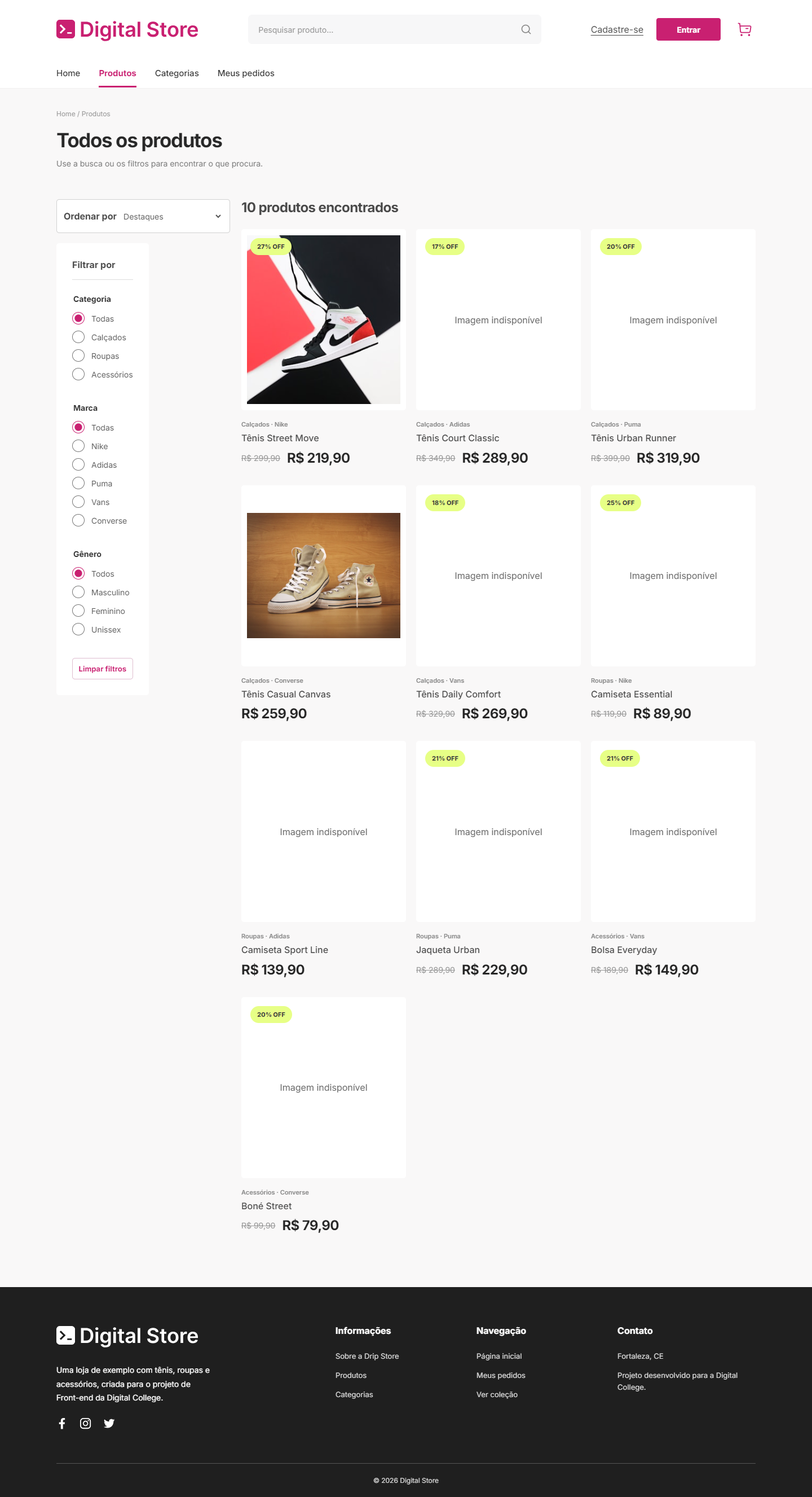
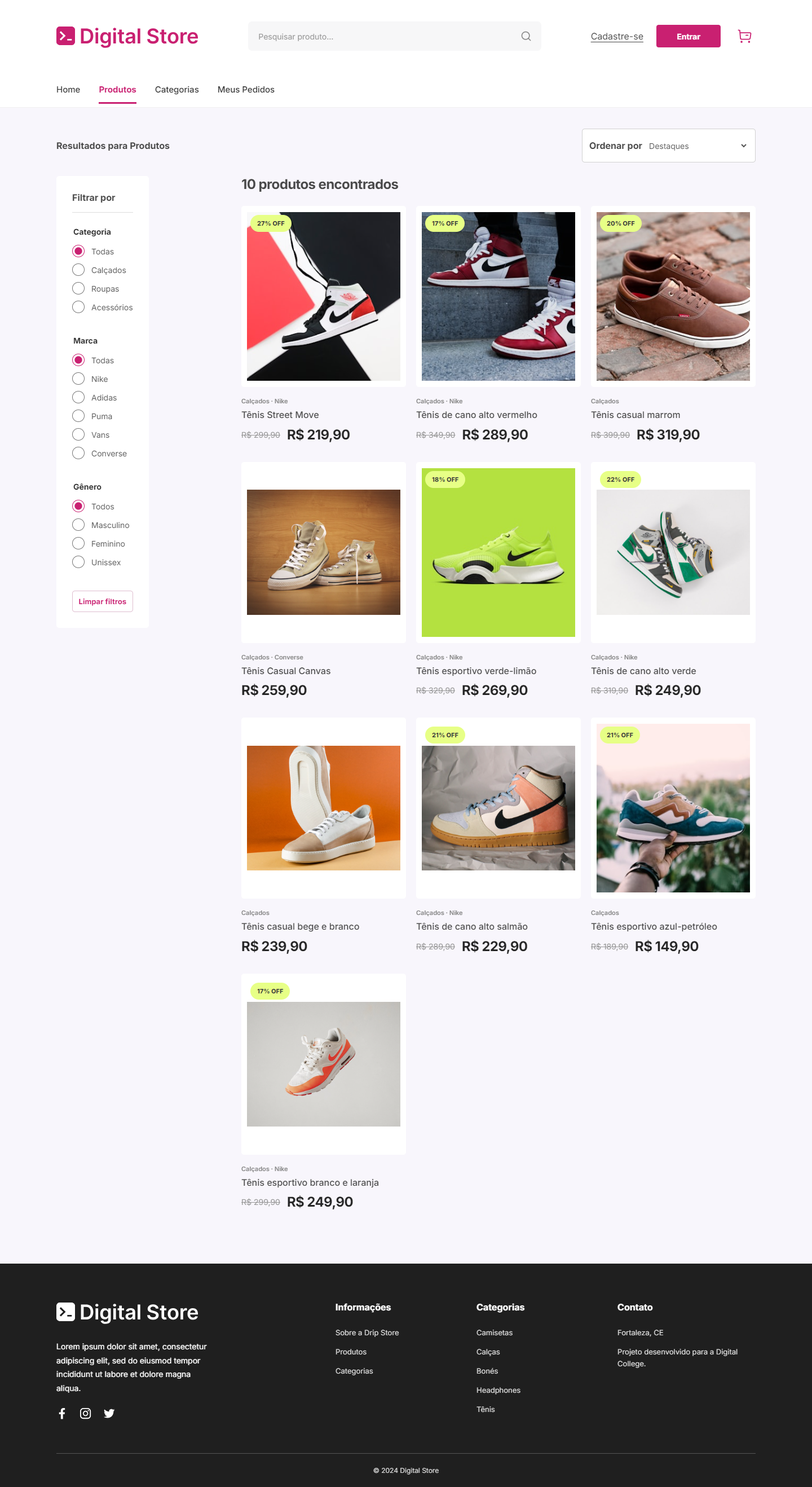
fix: alinhar páginas às referências e completar fotos do catálogo

diff --git a/src/data/products.js b/src/data/products.js
@@ -1,35 +1,35 @@
 const cdn = '/store/';
 
 export const collections = [
-  { title: 'Estilo que acompanha', tag: 'Camisetas', image: `${cdn}collection-1.png`, category: 'Roupas' },
-  { title: 'O detalhe faz diferença', tag: 'Calçados', image: `${cdn}collection-2.png`, category: 'Calçados' },
-  { title: 'Para todos os dias', tag: 'Acessórios', image: `${cdn}collection-3.png`, category: 'Acessórios' }
+  { title: 'Novo drop Supreme', tag: 'Camisetas', image: `${cdn}collection-1.png`, category: 'Roupas' },
+  { title: 'Coleção Adidas', tag: 'Calçados', image: `${cdn}collection-2.png`, category: 'Calçados' },
+  { title: 'Novo Beats Bass', tag: 'Acessórios', image: `${cdn}collection-3.png`, category: 'Acessórios' }
 ];
 
 const data = [
-  ['Tênis Street Move', 'Calçados', 'Nike', 'Unissex', 299.90, 219.90, 'product-thumb-1.jpeg'],
-  ['Tênis Court Classic', 'Calçados', 'Adidas', 'Masculino', 349.90, 289.90, null],
-  ['Tênis Urban Runner', 'Calçados', 'Puma', 'Feminino', 399.90, 319.90, null],
-  ['Tênis Casual Canvas', 'Calçados', 'Converse', 'Unissex', 259.90, null, 'produc-image-4.jpeg'],
-  ['Tênis Daily Comfort', 'Calçados', 'Vans', 'Masculino', 329.90, 269.90, null],
-  ['Camiseta Essential', 'Roupas', 'Nike', 'Feminino', 119.90, 89.90, null],
-  ['Camiseta Sport Line', 'Roupas', 'Adidas', 'Masculino', 139.90, null, null],
-  ['Jaqueta Urban', 'Roupas', 'Puma', 'Unissex', 289.90, 229.90, null],
-  ['Bolsa Everyday', 'Acessórios', 'Vans', 'Feminino', 189.90, 149.90, null],
-  ['Boné Street', 'Acessórios', 'Converse', 'Unissex', 99.90, 79.90, null]
+  ["Tênis Street Move","Calçados","Nike","Unissex",299.9,219.9,"product-thumb-1.jpeg"],
+  ["Tênis de cano alto vermelho","Calçados","Nike","Unissex",349.9,289.9,"product-thumb-2.jpeg"],
+  ["Tênis casual marrom","Calçados","","Unissex",399.9,319.9,"product-thumb-3.jpeg"],
+  ["Tênis Casual Canvas","Calçados","Converse","Unissex",259.9,null,"produc-image-4.jpeg"],
+  ["Tênis esportivo verde-limão","Calçados","Nike","Unissex",329.9,269.9,"product-thumb-5.jpeg"],
+  ["Tênis de cano alto verde","Calçados","Nike","Unissex",319.9,249.9,"produc-image-1.jpeg"],
+  ["Tênis casual bege e branco","Calçados","","Unissex",239.9,null,"produc-image-2.jpeg"],
+  ["Tênis de cano alto salmão","Calçados","Nike","Unissex",289.9,229.9,"produc-image-3.jpeg"],
+  ["Tênis esportivo azul-petróleo","Calçados","","Unissex",189.9,149.9,"product-thumb-4.jpeg"],
+  ["Tênis esportivo branco e laranja","Calçados","Nike","Unissex",299.9,249.9,"produc-image-5.jpeg"]
 ];
 
 const descriptions = [
-  'Tênis casual para usar com jeans, bermuda ou calça. Uma opção para quem prefere um visual mais básico.',
-  'Modelo com inspiração nos tênis de quadra, para combinar com roupas casuais.',
-  'Tênis com visual esportivo, que também funciona com looks do dia a dia.',
-  'Uma opção simples para quem gosta de tênis de lona e combinações mais descontraídas.',
-  'Tênis casual de linhas discretas, fácil de combinar com peças básicas.',
-  'Camiseta para quem gosta de roupas simples e de montar o próprio conjunto.',
-  'Camiseta de visual esportivo, para usar com short, calça ou bermuda.',
-  'Jaqueta para completar uma produção casual nos dias mais frescos.',
-  'Bolsa para levar os itens do dia a dia, sem abrir mão de um visual mais casual.',
-  'Boné para usar com camiseta, jaqueta ou o que mais combinar com você.'
+  "Tênis de cano alto branco, preto e vermelho.",
+  "Tênis vermelho e branco com detalhe lateral preto.",
+  "Tênis marrom de cadarço com solado branco.",
+  "Tênis bege de lona com cano alto.",
+  "Tênis esportivo verde-limão com detalhe lateral preto.",
+  "Tênis de cano alto verde e branco.",
+  "Tênis de cano baixo com cabedal bege e branco.",
+  "Tênis de cano alto com painéis salmão, bege e branco.",
+  "Tênis azul-petróleo com painéis bege e branco.",
+  "Tênis esportivo branco com detalhes laranja."
 ];
 
 export const products = data.map(([name, category, brand, gender, price, priceDiscount, image], index) => ({
@@ -40,8 +40,8 @@ export const products = data.map(([name, category, brand, gender, price, priceDi
   gender,
   price,
   priceDiscount,
-  image: image ? `${cdn}${image}` : null,
-  images: image ? [`${cdn}${image}`] : [],
+  image: `${cdn}${image}`,
+  images: [`${cdn}${image}`],
   reference: `DS-${String(index + 1).padStart(4, '0')}`,
   stars: Number((4.2 + (index % 6) * .1).toFixed(1)),
   rating: 42 + index * 11,

diff --git a/src/styles.css b/src/styles.css
@@ -342,3 +342,84 @@ img { max-width: 100%; }
   .hero .gallery-track > img { object-fit: contain; }
   .hero .gallery-dots { bottom: 0; }
 }
+
+/* Composição dos frames de referência */
+:root { background: #f8f6fc; }
+.hero { background: #f5f5f5; }
+.hero .gallery-track > img { object-fit: contain; padding: 52px 5% 64px 46%; }
+.hero .gallery-dots button.selected { width: 10px; }
+.hero .gallery-dots { bottom: 38px; }
+.hero-copy { position: absolute; inset: 0; display: flex; align-items: center; pointer-events: none; }
+.hero-copy > div { max-width: 450px; }
+.hero-copy h1 { color: #1f1f1f; font-size: clamp(38px, 4.4vw, 64px); line-height: 1.04; margin: 16px 0 20px; font-weight: 800; }
+.hero-kicker { color: #996100; font-weight: 700; font-size: 16px; }
+.hero-description { color: #474747; font-size: 17px; line-height: 1.65; margin-bottom: 28px; }
+.hero-copy .primary-button { min-width: 220px; }
+.collections-section { margin-top: 40px; }
+.collections-grid { gap: 12px; }
+.collection-card { aspect-ratio: 1.6; }
+.collection-card .discount-tag { top: 12%; left: 7%; }
+.collection-buy { position: absolute; bottom: 13%; left: 7%; background: #fff; color: var(--primary); border-radius: 5px; padding: 11px 23px; font-size: 14px; font-weight: 700; }
+.category-icons { list-style: none; display: flex; gap: 36px; justify-content: center; margin: 0; padding: 0; }
+.category-icons a { display: grid; justify-items: center; gap: 12px; font-weight: 600; font-size: 14px; }
+.category-icons a > span { width: 96px; height: 96px; border-radius: 50%; background: white; display: grid; place-items: center; color: #666; }
+.category-icons li:first-child a > span, .category-icons a:hover > span { color: var(--primary); }
+.catalog-toolbar { gap: 12px; margin: 0 0 24px; }
+.catalog-toolbar h1 { margin: 0; font-size: 16px; color: #474747; }
+.product-crumb { color: #666; font-size: 14px; margin: 0 0 24px; }
+.gallery-product .gallery-stage, .gallery-thumbs button { background: #e2e3ff; }
+.gallery-thumbs button:nth-child(2n) { background: #ffe8bd; }
+.gallery-thumbs button:nth-child(3n) { background: #ffd1cf; }
+.mobile-menu-title { display: none; }
+@media (max-width: 760px) {
+  .hero .gallery-stage { aspect-ratio: 1.55; }
+  .hero .gallery-track > img { padding: 16px 20px 0; }
+  .hero .gallery-dots { bottom: 18px; }
+  .hero-copy { position: static; display: block; padding-bottom: 56px; text-align: center; }
+  .hero-copy > div { max-width: none; }
+  .hero-copy h1 { font-size: 40px; margin: 12px 0; }
+  .hero-kicker { color: var(--primary); font-size: 13px; }
+  .hero-description { font-size: 14px; margin-bottom: 22px; }
+  .hero-copy .primary-button { width: 100%; }
+  .category-section .section-heading { justify-content: flex-start; }
+  .category-icons { justify-content: flex-start; overflow-x: auto; gap: 16px; padding: 3px 3px 10px; }
+  .category-icons a > span { width: 72px; height: 72px; }
+  .category-icons a { font-size: 12px; }
+  .catalog-toolbar { display: grid; grid-template-columns: minmax(0,1fr) auto; }
+  .catalog-toolbar h1 { grid-column: 1 / -1; grid-row: 2; }
+  .catalog-toolbar .sort-control { width: 100%; height: 48px; }
+  .mobile-filter-toggle { background: var(--primary); color: white; border: 0; height: 48px; }
+  .mobile-menu-title { display: block; margin: 12px 0; }
+  .mobile-account .login-link { width: 100%; }
+  .product-page .gallery-stage { height: auto; aspect-ratio: 700 / 570; }
+  .buy-box .buy-button { width: 100%; max-width: none; }
+}
+
+.hero-copy > div { max-width: min(47%, 520px); }
+.hero-kicker { color: #9b6300; }
+.hero::before {
+  content: '';
+  position: absolute;
+  z-index: 1;
+  pointer-events: none;
+  top: 11%;
+  right: 3%;
+  width: 125px;
+  aspect-ratio: 1;
+  border-radius: 50%;
+  background: radial-gradient(circle, #f6aa1c 1px, transparent 1.5px) 0 0 / 12px 12px;
+}
+@media (min-width: 1081px) {
+  .header-top { min-height: 128px; }
+  .main-nav { height: 62px; }
+  .category-section { margin-bottom: 115px; }
+}
+@media (max-width: 760px) {
+  .hero-copy > div { max-width: none; }
+  .hero-kicker { color: var(--primary); }
+  .hero::before { width: 75px; top: 5%; right: -23px; background-size: 9px 9px; }
+  .main-nav.is-open, .filters-panel.visible { top: 77px; height: calc(100dvh - 77px); }
+  .menu-backdrop, .filter-backdrop { top: 77px; }
+  .main-nav a { align-self: flex-start; }
+  .mobile-account { width: 100%; border-top: 1px solid #f5f5f5; }
+}

diff --git a/src/pages/HomePage.jsx b/src/pages/HomePage.jsx
@@ -1,23 +1,70 @@
 import { Link } from 'react-router-dom';
+import { Footprints, Headphones, Shirt } from 'lucide-react';
 import { getCollections, getProducts } from '../lib/catalog';
 import Gallery from '../components/Gallery';
 import Section from '../components/Section';
 import ProductListing from '../components/ProductListing';
 
-const cdn = '/store/';
-const slides = [1, 2, 3].map(number => ({src: `${cdn}home-slide-${number}.jpeg`}));
+const slides = ['produc-image-5.jpeg', 'product-thumb-2.jpeg', 'product-thumb-5.jpeg', 'produc-image-1.jpeg']
+  .map(file => ({ src: `/store/${file}` }));
+
+const categories = [
+  ['Camisetas', 'Roupas', Shirt],
+  ['Calças', 'Roupas'],
+  ['Bonés', 'Acessórios'],
+  ['Headphones', 'Acessórios', Headphones],
+  ['Tênis', 'Calçados', Footprints]
+];
+
+function CategoryIcon({ label, icon: Icon }) {
+  if (Icon) return <Icon size={31} strokeWidth={1} aria-hidden="true" />;
+  return <svg width="31" height="31" viewBox="0 0 32 32" fill="none" stroke="currentColor" aria-hidden="true">
+    {label === 'Calças'
+      ? <path d="M10 4h12l4 24h-7l-3-15-3 15H6l4-24Zm0 4h12M16 4v9" />
+      : <path d="M6 21v-3a10 10 0 0 1 20 0v3H6Zm0 0-3 3h12l5-3m-4-13v13" />}
+  </svg>;
+}
 
 export default function HomePage() {
-  const products = getProducts({featured: true}).slice(0, 8);
+  const products = getProducts({ featured: true });
   const collections = getCollections();
   return <>
-    <div className="hero"><Gallery images={slides} width={1440} height={681} alt="Coleção em destaque" />
+    <div className="hero">
+      <Gallery images={slides} width={1440} height={681} alt="Tênis em oferta" />
+      <div className="container hero-copy">
+        <div>
+          <p className="hero-kicker">Melhores ofertas personalizadas</p>
+          <h1>Queima de<br /> estoque Nike&nbsp;🔥</h1>
+          <p className="hero-description">Consequat culpa exercitation mollit nisi excepteur do do tempor laboris eiusmod irure consectetur.</p>
+          <Link to="/products?brand=Nike" className="primary-button">Ver Ofertas</Link>
+        </div>
+      </div>
     </div>
     <div className="container home-content">
-      <Section title="Coleções em destaque" titleAlign="center" className="collections-section">
-        <div className="collections-grid">{collections.map((collection) => <Link key={collection.title} to={`/products?category=${encodeURIComponent(collection.category)}`} className="collection-card"><img src={collection.image} alt={collection.title} /></Link>)}</div>
+      <Section title="Coleções em destaque" className="collections-section">
+        <div className="collections-grid">
+          {collections.map(collection => (
+            <Link key={collection.title} to={`/products?category=${encodeURIComponent(collection.category)}`} className="collection-card">
+              <img src={collection.image} alt={collection.title} />
+              <span className="discount-tag">30% OFF</span>
+              <span className="collection-buy">Comprar</span>
+            </Link>
+          ))}
+        </div>
       </Section>
-      <Section title="Produtos em alta" titleAlign="left" link={{text:'Ver todos',href:'/products'}}>
+      <Section title="Coleções em destaque" titleAlign="center" className="category-section">
+        <ul className="category-icons">
+          {categories.map(([label, category, icon]) => (
+            <li key={label}>
+              <Link to={`/products?category=${encodeURIComponent(category)}`}>
+                <span><CategoryIcon label={label} icon={icon} /></span>
+                {label}
+              </Link>
+            </li>
+          ))}
+        </ul>
+      </Section>
+      <Section title="Produtos em alta" link={{ text: 'Ver todos', href: '/products' }}>
         <ProductListing products={products} />
       </Section>
     </div>

diff --git a/tests/e2e.spec.js b/tests/e2e.spec.js
@@ -4,7 +4,7 @@ const screenshotPath = (name) => `docs/screenshots/${name}.png`;
 
 test('home mostra carrossel, três coleções e oito produtos', async ({ page }) => {
   await page.goto('/');
-  await expect(page.getByRole('heading', { name: 'Coleções em destaque' })).toBeVisible();
+  await expect(page.getByRole('heading', { name: 'Coleções em destaque' })).toHaveCount(2);
   await expect(page.getByRole('heading', { name: 'Produtos em alta' })).toBeVisible();
   await expect(page.locator('.collection-card')).toHaveCount(3);
   await expect(page.locator('.home-content .product-card')).toHaveCount(8);
@@ -35,7 +35,7 @@ test('galeria, seleção de opções e compra demonstrativa funcionam', async ({
   await expect(images.first()).toHaveAttribute('src', '/store/product-thumb-1.jpeg');
   await expect(page.getByRole('button', { name: 'Imagem anterior' })).toBeDisabled();
   await expect(page.getByRole('button', { name: 'Próxima imagem' })).toBeDisabled();
-  await expect(page.locator('.gallery-thumbs')).toHaveCount(0);
+  await expect(page.getByRole('button', { name: 'Mostrar imagem 1' })).toHaveAttribute('aria-pressed', 'true');
   await page.getByRole('button', { name: 'Selecionar tamanho 40' }).click();
   await page.getByRole('button', { name: 'Selecionar cor #dad2c8' }).click();
   await expect(page.getByRole('button', { name: 'Selecionar tamanho 40' })).toHaveAttribute('aria-pressed', 'true');
@@ -86,6 +86,7 @@ test('menu, busca e filtros mobile', async ({ page }) => {
   await page.keyboard.press('Escape');
   await expect(page.locator('.main-nav')).toBeHidden();
   await page.getByRole('button', { name: 'Alternar busca' }).click();
+  await page.screenshot({ path: 'test-results/visual/375/busca.png' });
   await page.getByLabel('Buscar produtos').fill('street');
   await page.getByRole('button', { name: 'Pesquisar', exact: true }).click();
   await expect(page).toHaveURL(/filter=street/);
@@ -104,7 +105,7 @@ test('o carrossel da Home navega e desabilita as setas nas extremidades', async 
   await expect(previous).toBeDisabled();
   await next.click();
   await expect(gallery.locator('.gallery-track')).toHaveAttribute('style', /translateX\(-100%\)/);
-  await gallery.getByRole('button', { name: 'Ir para slide 3' }).click();
+  await gallery.getByRole('button', { name: 'Ir para slide 4' }).click();
   await expect(next).toBeDisabled();
   await previous.click();
   await expect(next).toBeEnabled();

diff --git a/src/components/Footer.jsx b/src/components/Footer.jsx
@@ -3,18 +3,18 @@ import Logo from './Logo';
 const socials = '/store/';
 const groups = [
   { title: 'Informações', links: [{text:'Sobre a Drip Store',to:'/account'},{text:'Produtos',to:'/products'},{text:'Categorias',to:'/products?category=Calçados'}] },
-  { title: 'Navegação', links: [{text:'Página inicial',to:'/'},{text:'Meus pedidos',to:'/orders'},{text:'Ver coleção',to:'/products'}] }
+  { title: 'Categorias', links: [{text:'Camisetas',to:'/products?category=Roupas'},{text:'Calças',to:'/products?category=Roupas'},{text:'Bonés',to:'/products?category=Acessórios'},{text:'Headphones',to:'/products?category=Acessórios'},{text:'Tênis',to:'/products?category=Calçados'}] }
 ];
 function FooterInfo({title,informations}) { return <div className="footer-links"><h3>{title}</h3>{informations.map(info=><Link key={info.text} to={info.link}>{info.text}</Link>)}</div> }
 export default function Footer() {
   return <footer className="site-footer">
     <div className="container footer-columns">
-      <div className="footer-about"><Logo light /><p>Uma loja de exemplo com tênis, roupas e acessórios, criada para o projeto de Front-end da Digital College.</p><div className="social-links">
+      <div className="footer-about"><Logo light /><p>Lorem ipsum dolor sit amet, consectetur adipiscing elit, sed do eiusmod tempor incididunt ut labore et dolore magna aliqua.</p><div className="social-links">
         {['facebook','instagram','twitter'].map((social) => <a key={social} href={`https://${social}.com`} aria-label={`Abrir ${social}`} target="_blank" rel="noreferrer"><img src={`${socials}${social}.svg`} alt="" width="20" height="20" /></a>)}
       </div></div>
       {groups.map((group) => <FooterInfo key={group.title} title={group.title} informations={group.links.map(({text,to})=>({text,link:to}))} />)}
       <div className="footer-links"><h3>Contato</h3><p>Fortaleza, CE</p><p>Projeto desenvolvido para a Digital College.</p></div>
     </div>
-    <div className="container"><hr className="footer-divider" /><div className="footer-bottom">© {new Date().getFullYear()} Digital Store</div></div>
+    <div className="container"><hr className="footer-divider" /><div className="footer-bottom">© 2024 Digital Store</div></div>
   </footer>;
 }

diff --git a/src/pages/ProductListingPage.jsx b/src/pages/ProductListingPage.jsx
@@ -34,12 +34,11 @@ export default function ProductListingPage() {
     setParams(next);
   }
   return <div className="container catalog-page">
-    <div className="page-heading"><p>Home / Produtos</p><h1>Todos os produtos</h1><span>Use a busca ou os filtros para encontrar o que procura.</span></div>
-    <div className="catalog-toolbar"><button className="mobile-filter-toggle" aria-expanded={showFilters} aria-controls="catalog-filters" onClick={()=>setShowFilters(!showFilters)}><SlidersHorizontal size={19}/> Filtrar produtos</button></div>
+    <div className="catalog-toolbar"><h1>Resultados para {params.get('filter') || 'Produtos'}</h1><label className="sort-control"><span>Ordenar por</span><select value={params.get('sort')||''} onChange={e=>change('sort',e.target.value)}><option value="">Destaques</option><option value="price-asc">Menor preço</option><option value="price-desc">Maior preço</option></select></label><button className="mobile-filter-toggle" aria-label="Filtrar produtos" aria-expanded={showFilters} aria-controls="catalog-filters" onClick={()=>setShowFilters(!showFilters)}><SlidersHorizontal size={19}/></button></div>
     {showFilters && <button type="button" className="filter-backdrop" aria-label="Fechar filtros pelo fundo" onClick={() => setShowFilters(false)} />}
     <div className="catalog-layout">
       <aside className={`catalog-sidebar ${showFilters?'visible':''}`}>
-        <label className="sort-control"><span>Ordenar por</span><select value={params.get('sort')||''} onChange={e=>change('sort',e.target.value)}><option value="">Destaques</option><option value="price-asc">Menor preço</option><option value="price-desc">Maior preço</option></select></label>
+
         <div id="catalog-filters" className={`filters-panel ${showFilters?'visible':''}`}><div className="filter-top"><h2>Filtrar por</h2><button className="mobile-filter-close" aria-label="Fechar filtros" onClick={()=>setShowFilters(false)}><X/></button></div>
         <FilterGroup title="Categoria" options={categoryOptions} value={params.get('category')||''} onChange={v=>change('category',v)} />
         <FilterGroup title="Marca" options={brandOptions} value={params.get('brand')||''} onChange={v=>change('brand',v)} />

diff --git a/src/components/Gallery.jsx b/src/components/Gallery.jsx
@@ -13,6 +13,6 @@ export default function Gallery({images, showThumbs = false, width, height, radi
       <button type="button" className="gallery-prev" onClick={previous} disabled={selected === 0} aria-label="Imagem anterior"><img src="/store/arrow-left.svg" alt="" /></button>
       <button type="button" className="gallery-next" onClick={next} disabled={selected === images.length - 1} aria-label="Próxima imagem"><img src="/store/arrow-right.svg" alt="" /></button>
     </div>
-    {showThumbs && images.length > 1 ? <div className="gallery-thumbs">{images.map((img,index) => <button type="button" key={`${img.src}-${index}`} className={selected === index ? 'selected' : ''} onClick={() => setSelected(index)} aria-label={`Mostrar imagem ${index+1}`}><img src={img.src} alt="" /></button>)}</div> : !showThumbs && <div className="gallery-dots">{images.map((_,index) => <button key={index} className={selected===index?'selected':''} onClick={()=>setSelected(index)} aria-label={`Ir para slide ${index + 1}`}/>)}</div>}
+    {showThumbs ? <div className="gallery-thumbs">{images.map((img,index) => <button type="button" key={`${img.src}-${index}`} className={selected === index ? 'selected' : ''} onClick={() => setSelected(index)} aria-pressed={selected === index} aria-label={`Mostrar imagem ${index+1}`}><img src={img.src} alt="" /></button>)}</div> : !showThumbs && <div className="gallery-dots">{images.map((_,index) => <button key={index} className={selected===index?'selected':''} onClick={()=>setSelected(index)} aria-label={`Ir para slide ${index + 1}`}/>)}</div>}
   </div>;
 }

diff --git a/src/components/Header.jsx b/src/components/Header.jsx
@@ -32,7 +32,7 @@ export default function Header() {
     { to: '/', label: 'Home', end: true },
     { to: '/products', label: 'Produtos' },
     { to: '/products?category=Calçados', label: 'Categorias' },
-    { to: '/orders', label: 'Meus pedidos' }
+    { to: '/orders', label: 'Meus Pedidos' }
   ];
   function submit(event) {
     event.preventDefault();
@@ -60,11 +60,12 @@ export default function Header() {
     {mobileMenu && <button type="button" className="menu-backdrop" aria-label="Fechar menu pelo fundo" onClick={() => setMobileMenu(false)} />}
     <nav id="main-navigation" className={`main-nav container ${mobileMenu ? 'is-open' : ''}`} aria-label="Navegação principal">
       <button type="button" className="menu-close" aria-label="Fechar menu" onClick={() => setMobileMenu(false)}><X /></button>
+      <strong className="mobile-menu-title">Páginas</strong>
       {links.map(({to,label,end}) => <NavLink key={label} to={to} end={end} onClick={() => setMobileMenu(false)} className={({isActive}) => {
         const active = label === 'Categorias'
           ? isActive && location.search.includes('category=')
           : label === 'Produtos'
-            ? isActive && !location.search.includes('category=')
+            ? location.pathname.startsWith('/product/') || (isActive && !params.has('category'))
             : isActive;
         return active ? 'active' : undefined;
       }}>{label}</NavLink>)}

diff --git a/src/components/BuyBox.jsx b/src/components/BuyBox.jsx
@@ -3,11 +3,11 @@ import { money } from '../lib/money';
 export default function BuyBox({product: productProp, name, reference, stars, rating, price, priceDiscount, description, children, onBuy}) {
   const product = productProp ?? {name, reference, stars, rating, price, priceDiscount, description, category: ''};
   return <div className="buy-box">
-    <p className="breadcrumbs">Início / Produtos / {product.category}</p>
+
     <h1>{product.name}</h1>
-    <p className="reference">Ref.: {product.reference} | {product.brand}</p>
+    <p className="reference">Ref.: {product.reference}{product.brand && ` | ${product.brand}`}</p>
     <div className="reviews"><span className="stars">{product.stars} <img src="/store/star-icon.svg" alt="" width="14" height="14" /></span><span>({product.rating} avaliações)</span></div>
-    <div className="buy-price">{product.priceDiscount ? <><del>{money(product.price)}</del><strong>{money(product.priceDiscount)}</strong></> : <strong>{money(product.price)}</strong>}</div>
+    <div className="buy-price">{product.priceDiscount ? <><strong>{money(product.priceDiscount)}</strong><del>{money(product.price)}</del></> : <strong>{money(product.price)}</strong>}</div>
     <h2>Descrição do produto</h2><p className="buy-description">{product.description}</p>
     {children}
     <button className="buy-button" onClick={onBuy}><ShoppingBag size={19} /> COMPRAR</button>

diff --git a/src/pages/ProductViewPage.jsx b/src/pages/ProductViewPage.jsx
@@ -1,6 +1,5 @@
 import { useState } from 'react';
 import { useParams, Link } from 'react-router-dom';
-import { ChevronLeft } from 'lucide-react';
 import Gallery from '../components/Gallery';
 import BuyBox from '../components/BuyBox';
 import ProductOptions from '../components/ProductOptions';
@@ -21,7 +20,7 @@ export default function ProductViewPage() {
   const setColor = (value) => setSelections((current) => ({...current, [id]: {...current[id], color: value}}));
   if (!product) return <div className="container not-found"><h1>Produto não encontrado</h1><p>Este item não está disponível no catálogo.</p><Link to="/products">Voltar para produtos</Link></div>;
   return <div className="container product-page">
-    <Link className="back-link" to="/products"><ChevronLeft size={17}/> Voltar para produtos</Link>
+    <p className="product-crumb"><Link to="/">Home</Link> / <Link to="/products">Produtos</Link> / {product.category} / {product.name}</p>
     <div className="product-details-layout">
       {product.images.length ? <Gallery key={product.id} images={product.images.map(src=>({src}))} showThumbs width={700} height={570} radius="4px" alt={product.name}/>
         : <div className="product-gallery-unavailable image-unavailable">Imagem indisponível</div>}

diff --git a/tests/catalog.test.js b/tests/catalog.test.js
@@ -13,9 +13,9 @@ test('busca filtra o catálogo sem diferenciar maiúsculas', () => {
 });
 
 test('filtros de categoria e marca combinam', () => {
-  const items = getProducts({ category: 'Calçados', brand: 'Puma' });
+  const items = getProducts({ category: 'Calçados', brand: 'Converse' });
   assert.ok(items.length > 0);
-  assert.ok(items.every((p) => p.category === 'Calçados' && p.brand === 'Puma'));
+  assert.ok(items.every((p) => p.category === 'Calçados' && p.brand === 'Converse'));
 });
 
 test('ordenação considera preços com desconto', () => {
@@ -36,7 +36,7 @@ test('a home possui 3 coleções', () => {
 test('fotos do catálogo pertencem exclusivamente à galeria do item', () => {
   const assigned = new Set();
   for (const product of getProducts()) {
-    assert.deepEqual(product.images, product.image ? [product.image] : []);
+    assert.deepEqual(product.images, [product.image]);
     for (const image of product.images) {
       assert.ok(!assigned.has(image), image);
       assigned.add(image);

diff --git a/src/components/ProductCard.jsx b/src/components/ProductCard.jsx
@@ -11,7 +11,7 @@ export default function ProductCard({ product, imagem, image, name, price, price
         ? <img src={product.imagem ?? product.image} alt={product.name} loading="lazy" />
         : <span className="image-unavailable">Imagem indisponível</span>}
     </div>
-    <div className="product-meta"><span>{product.category} · {product.brand}</span><h3>{product.name}</h3>
+    <div className="product-meta"><span>{product.category}{product.brand && ` · ${product.brand}`}</span><h3>{product.name}</h3>
       <div className="product-price">{discount ? <><del>{money(product.price)}</del><strong>{money(product.priceDiscount)}</strong></> : <strong>{money(product.price)}</strong>}</div>
     </div>
   </>;
